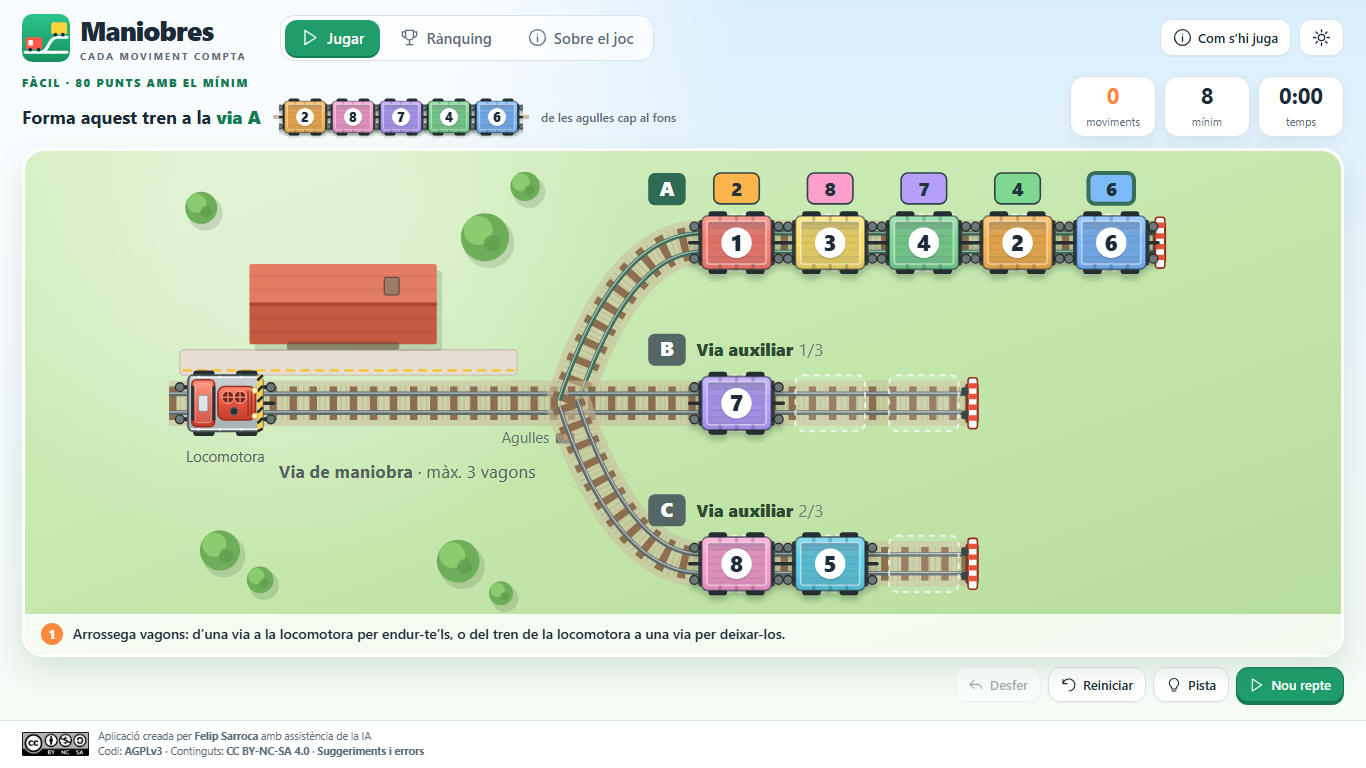
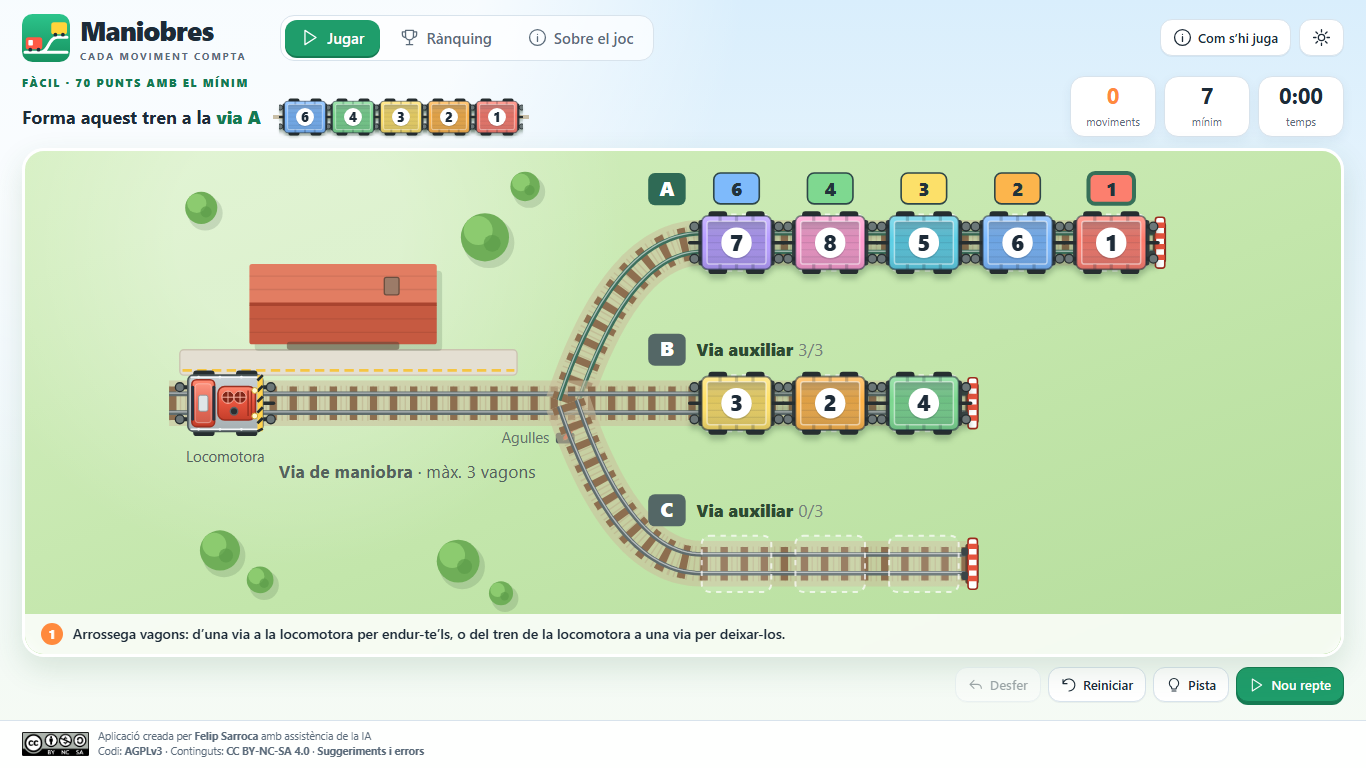
Maniobres 2.8.5: fora «de les agulles cap al fons» i README renovat amb captures noves

diff --git a/Maniobres/src/app.js b/Maniobres/src/app.js
@@ -708,7 +708,7 @@ function renderGame() {
             ? `Arrossega vagons entre les vies i la locomotora.`
             : `<b>1</b> Arrossega vagons: d’una via a la locomotora per endur-te’ls, o del tren de la locomotora a una via per deixar-los.`;
   $("#main").innerHTML =
-    `<div class="stage"><div class="stage-head"><div class="goal"><div class="eyebrow">${game.mode === "tutorial" ? "Partida de pràctica · no puntua" : game.min ? levelOf(game.min) + " · " + score(game.min, game.min) + " punts amb el mínim" : "Preparant…"}</div><div class="goal-line"><span>Forma aquest tren a la <b>via A</b></span><span class="target-train" aria-label="Tren objectiu: ${Array.from({ length: c.t }, (_, i) => game.labels?.[i] ?? i + 1).join(", ")}">${Array.from({ length: c.t }, (_, i) => `<svg class="mini-wagon" viewBox="-7 -24 66 48" aria-hidden="true">${wagonArt(game.labels?.[i] ?? i + 1, 0, 0).replace(" data-wagon=", " data-mini=")}</svg>`).join("")}</span><small>de les agulles cap al fons</small></div></div><div class="stage-stats"><div><b>${game.log.length}</b><small>moviments</small></div><div><b>${show(game.min)}</b><small>mínim${prefs.minimum && !isWon && remaining != null && game.log.length ? ` · en queden ${solving ? "…" : remaining}` : ""}</small></div><div><b id="timer">${time(game.finished ? game.seconds : elapsed())}</b><small>temps</small></div></div></div><div class="board-wrap ${selected ? "choosing" : ""} ${isWon ? "complete" : ""}">${board()}<p class="board-caption ${blocked ? "warning" : ""}">${instruction}${preview ? `<span class="hint-line">${esc(preview)}</span>` : ""}</p></div><div class="stage-controls">${isWon ? `<div class="choice-row"><button class="primary" data-action="result">Veure el resultat</button><button data-action="new">Una altra partida ${icon("arrow")}</button></div>` : `<div class="choice-row">${selected ? `<span class="choice-label">Via ${"ABC"[selected - 1]} · la locomotora torna</span>` + Array.from({ length: c.h + 1 }, (_, k) => `<button class="chip" data-cut="${k}" ${!moves(game.state, c).some((m) => m[0] === selected && m[1] === k) || autoplay ? "disabled" : ""}>${k === 0 ? "sola" : `<span class="amb">amb </span>${k} ${k === 1 ? "vagó" : "vagons"}`}</button>`).join("") + `<button class="ghost chip" data-action="cancel">Cancel·la</button>` : ""}</div>`}<div class="tool-row"><button data-action="undo" ${!game.log.length || autoplay ? "disabled" : ""}>${icon("undo")} Desfer</button><button data-action="restart">${icon("reset")} Reiniciar</button><button data-action="hint" ${isWon || autoplay || solving ? "disabled" : ""}>${icon("bulb")} Pista</button><button class="primary" data-action="new-menu">${icon("play")} Nou repte</button></div></div></div>`;
+    `<div class="stage"><div class="stage-head"><div class="goal"><div class="eyebrow">${game.mode === "tutorial" ? "Partida de pràctica · no puntua" : game.min ? levelOf(game.min) + " · " + score(game.min, game.min) + " punts amb el mínim" : "Preparant…"}</div><div class="goal-line"><span>Forma aquest tren a la <b>via A</b></span><span class="target-train" aria-label="Tren objectiu: ${Array.from({ length: c.t }, (_, i) => game.labels?.[i] ?? i + 1).join(", ")}">${Array.from({ length: c.t }, (_, i) => `<svg class="mini-wagon" viewBox="-7 -24 66 48" aria-hidden="true">${wagonArt(game.labels?.[i] ?? i + 1, 0, 0).replace(" data-wagon=", " data-mini=")}</svg>`).join("")}</span></div></div><div class="stage-stats"><div><b>${game.log.length}</b><small>moviments</small></div><div><b>${show(game.min)}</b><small>mínim${prefs.minimum && !isWon && remaining != null && game.log.length ? ` · en queden ${solving ? "…" : remaining}` : ""}</small></div><div><b id="timer">${time(game.finished ? game.seconds : elapsed())}</b><small>temps</small></div></div></div><div class="board-wrap ${selected ? "choosing" : ""} ${isWon ? "complete" : ""}">${board()}<p class="board-caption ${blocked ? "warning" : ""}">${instruction}${preview ? `<span class="hint-line">${esc(preview)}</span>` : ""}</p></div><div class="stage-controls">${isWon ? `<div class="choice-row"><button class="primary" data-action="result">Veure el resultat</button><button data-action="new">Una altra partida ${icon("arrow")}</button></div>` : `<div class="choice-row">${selected ? `<span class="choice-label">Via ${"ABC"[selected - 1]} · la locomotora torna</span>` + Array.from({ length: c.h + 1 }, (_, k) => `<button class="chip" data-cut="${k}" ${!moves(game.state, c).some((m) => m[0] === selected && m[1] === k) || autoplay ? "disabled" : ""}>${k === 0 ? "sola" : `<span class="amb">amb </span>${k} ${k === 1 ? "vagó" : "vagons"}`}</button>`).join("") + `<button class="ghost chip" data-action="cancel">Cancel·la</button>` : ""}</div>`}<div class="tool-row"><button data-action="undo" ${!game.log.length || autoplay ? "disabled" : ""}>${icon("undo")} Desfer</button><button data-action="restart">${icon("reset")} Reiniciar</button><button data-action="hint" ${isWon || autoplay || solving ? "disabled" : ""}>${icon("bulb")} Pista</button><button class="primary" data-action="new-menu">${icon("play")} Nou repte</button></div></div></div>`;
 }
 function select(v) {
   if (!game || game.finished || autoplay) return;
@@ -1002,7 +1002,7 @@ function renderAbout() {
       ["swap", "#ff8a3d", "Anar i tornar", "compta 1 moviment"],
     ],
     skills = ["Planificar", "Pensar enrere", "Dividir el problema", "Provar i ajustar", "Pensament computacional"];
-  $("#main").innerHTML = `<div class="page about-page"><header class="about-top"><img src="assets/favicon.svg" alt=""><div><div class="eyebrow">Sobre el joc</div><h1>Pocs vagons, poques vies, molt de cap</h1><p>Un trencaclosques de lògica: forma un tren amb el mínim de maniobres.</p></div></header><section class="panel about-rules"><h3>Les regles</h3><div class="rule-tiles">${rules.map(([ic, c, t, d]) => `<div><span style="--c:${c}">${icon(ic)}</span><b>${t}</b><small>${d}</small></div>`).join("")}</div></section><div class="about-trio"><section class="panel about-card"><h3>${icon("trophy")} Com puntua</h3><div class="score-pills"><span class="plus"><b>+10</b> per moviment del mínim</span><span class="minus"><b>−5</b> per moviment de més</span><span class="gold"><b>${icon("star")}</b> perfecte: el mínim exacte</span></div><small>Sense pistes · un cop per puzle · dura un any</small></section><section class="panel about-card"><h3>${icon("bulb")} Què s’hi aprèn</h3><div class="skill-chips">${skills.map((x) => `<span>${x}</span>`).join("")}</div></section><section class="panel about-card"><h3>${icon("route")} D’on ve</h3><p class="origin"><b>1979</b><span><strong>Inglenook Sidings</strong>, d’Alan Wright: un clàssic del modelisme ferroviari britànic basat en una feina real d’estació.</span></p></section></div><section class="panel about-facts"><div class="facts"><div><strong>8</strong><small>vagons a l’estació</small></div><div><strong>5</strong><small>formen el tren</small></div><div><strong>356.160</strong><small>situacions diferents</small></div><div><strong>17</strong><small>moviments, el repte més llarg</small></div></div></section><p class="credits">Versió 2.8.4 · Creat per <a href="https://ja.cat/felipsarroca" target="_blank" rel="noopener noreferrer">Felip Sarroca</a> amb assistència de la IA · Codi AGPLv3 i continguts CC BY-NC-SA 4.0 · <a href="https://github.com/felipsarroca/jocs/tree/main/Maniobres" target="_blank" rel="noopener noreferrer">Codi font</a> · <a href="https://github.com/felipsarroca/jocs/issues/new?template=maniobres.yml" target="_blank" rel="noopener noreferrer">Suggeriments i errors</a> · El rànquing només desa el nom de jugador i les solucions.</p></div>`;
+  $("#main").innerHTML = `<div class="page about-page"><header class="about-top"><img src="assets/favicon.svg" alt=""><div><div class="eyebrow">Sobre el joc</div><h1>Pocs vagons, poques vies, molt de cap</h1><p>Un trencaclosques de lògica: forma un tren amb el mínim de maniobres.</p></div></header><section class="panel about-rules"><h3>Les regles</h3><div class="rule-tiles">${rules.map(([ic, c, t, d]) => `<div><span style="--c:${c}">${icon(ic)}</span><b>${t}</b><small>${d}</small></div>`).join("")}</div></section><div class="about-trio"><section class="panel about-card"><h3>${icon("trophy")} Com puntua</h3><div class="score-pills"><span class="plus"><b>+10</b> per moviment del mínim</span><span class="minus"><b>−5</b> per moviment de més</span><span class="gold"><b>${icon("star")}</b> perfecte: el mínim exacte</span></div><small>Sense pistes · un cop per puzle · dura un any</small></section><section class="panel about-card"><h3>${icon("bulb")} Què s’hi aprèn</h3><div class="skill-chips">${skills.map((x) => `<span>${x}</span>`).join("")}</div></section><section class="panel about-card"><h3>${icon("route")} D’on ve</h3><p class="origin"><b>1979</b><span><strong>Inglenook Sidings</strong>, d’Alan Wright: un clàssic del modelisme ferroviari britànic basat en una feina real d’estació.</span></p></section></div><section class="panel about-facts"><div class="facts"><div><strong>8</strong><small>vagons a l’estació</small></div><div><strong>5</strong><small>formen el tren</small></div><div><strong>356.160</strong><small>situacions diferents</small></div><div><strong>17</strong><small>moviments, el repte més llarg</small></div></div></section><p class="credits">Versió 2.8.5 · Creat per <a href="https://ja.cat/felipsarroca" target="_blank" rel="noopener noreferrer">Felip Sarroca</a> amb assistència de la IA · Codi AGPLv3 i continguts CC BY-NC-SA 4.0 · <a href="https://github.com/felipsarroca/jocs/tree/main/Maniobres" target="_blank" rel="noopener noreferrer">Codi font</a> · <a href="https://github.com/felipsarroca/jocs/issues/new?template=maniobres.yml" target="_blank" rel="noopener noreferrer">Suggeriments i errors</a> · El rànquing només desa el nom de jugador i les solucions.</p></div>`;
 }
 // Escenes del «Com s'hi juga»: una estació petita (via de maniobra, via A amb corba i via B recta).
 function scene(step) {

diff --git a/Maniobres/src/style.css b/Maniobres/src/style.css
@@ -273,11 +273,6 @@ input {
 .goal-line b {
   color: var(--green-dark);
 }
-.goal-line small {
-  color: var(--muted);
-  font-size: 12px;
-  font-weight: 500;
-}
 .target-train {
   display: flex;
   gap: 5px;
@@ -1934,9 +1929,6 @@ kbd {
   }
 }
 @media (max-width: 1150px) and (min-width: 651px) {
-  .goal-line small {
-    display: none;
-  }
   .stage-stats > div {
     min-width: 66px;
     padding: 5px 8px;
@@ -1983,10 +1975,6 @@ kbd {
   }
   .goal-line {
     gap: 10px 12px;
-  }
-  .goal-line small {
-    flex-basis: 100%;
-    margin-top: -4px;
   }
   .stage-stats > div {
     padding: 9px 8px;

diff --git a/Maniobres/sw.js b/Maniobres/sw.js
@@ -1,5 +1,5 @@
 // SPDX-License-Identifier: AGPL-3.0-or-later
-const CACHE = "maniobres-v2.8.4-1";
+const CACHE = "maniobres-v2.8.5-1";
 const FILES = [
   "./",
   "./index.html",

diff --git a/Maniobres/README.md b/Maniobres/README.md
@@ -1,94 +1,166 @@
+<div align="center">
+
+<img src="assets/favicon.svg" width="96" alt="Icona de Maniobres">
+
 # Maniobres
 
-**Cada moviment compta.** Un puzle ferroviari en català inspirat en l’**Inglenook Sidings** d’Alan Wright (1979).
+**Cada moviment compta.**
+Un trencaclosques ferroviari en català: pocs vagons, poques vies i molt de cap.
 
-**[Juga a Maniobres](https://ja.cat/maniobres)** · [Guia docent](docs/guia-docent.md) · [Revisió crítica](docs/revisio.md)
+**[Juga ara a ja.cat/maniobres](https://ja.cat/maniobres)**
 
-![Estació de Maniobres en un portàtil](docs/screenshots/estacio-1366.png)
+![Versió](https://img.shields.io/badge/versió-2.8.5-1f9d6b)
+![Català](https://img.shields.io/badge/llengua-català-e5533d)
+![PWA](https://img.shields.io/badge/PWA-funciona%20sense%20connexió-2f80d1)
+![Codi AGPLv3](https://img.shields.io/badge/codi-AGPLv3-5b6b7a)
+![Continguts CC BY-NC-SA 4.0](https://img.shields.io/badge/continguts-CC%20BY--NC--SA%204.0-f5b82e)
 
-## El joc
+[Guia docent](docs/guia-docent.md) · [Revisió crítica](docs/revisio.md) · [Historial de canvis](CHANGELOG.md) · [Suggeriments i errors](https://github.com/felipsarroca/jocs/issues/new?template=maniobres.yml)
 
-Forma el tren objectiu a la via A, en l’ordre indicat des de les agulles fins al fons. Arrossega vagons d’una via a la locomotora o de la locomotora a una via. Cada anada i tornada de la locomotora compta com una maniobra. Només es poden agafar els vagons accessibles i cada via té una capacitat limitada.
+<img src="docs/screenshots/estacio-1366.png" alt="L’estació de Maniobres en un portàtil" width="860">
 
-La versió 2.0 és deliberadament senzilla: **Jugar**, **Rànquing** i **Sobre el joc**.
+</div>
 
-- **Jugar:** quatre dificultats (fàcil, mitjà, difícil i expert) segons el mínim de moviments. S’eviten els puzles que ja has resolt en aquest navegador.
-- Guia visual, mínim i moviments restants, pistes visuals (vagó marcat i fletxa), desfer, reinici, reproducció de la solució òptima i so opcional.
-- En acabar, la locomotora s’emporta el tren; el resultat mostra estrelles i xifres.
-- Rànquing general i per nivell; instal·lable com a app des de Preferències.
-- SVG originals, números a més de colors, teclat, moviment reduït i disseny adaptable.
-- PWA: el joc funciona sense connexió després de la primera càrrega; el rànquing necessita connexió.
+## Què és
 
-![Benvinguda amb el nom de jugador](docs/screenshots/benvinguda.png)
+Maniobres és una versió en català de l’**Inglenook Sidings**, el clàssic del modelisme ferroviari britànic que Alan Wright va idear el 1979 a partir d’una feina real d’estació. L’estació té una via de maniobra, una locomotora i tres vies sense sortida. La teva feina és **formar a la via A un tren concret, en l’ordre exacte, amb el mínim de moviments possible**.
 
-![Resultat d’una partida](docs/screenshots/resultat.png)
+Sembla fàcil: només hi ha vuit vagons. Però l’espai és el repte, i cada solució obliga a planificar, pensar enrere i dividir el problema en parts.
 
-### Controls
+## Com es juga
 
-Ratolí o tacte: **arrossega** un vagó d’una via fins a la locomotora per endur-te’l (amb els que té davant), o un vagó del tren de la locomotora fins a una via per deixar-lo (amb els que té darrere). També pots tocar una via i després el darrer vagó que vols endur-te. Teclat: **A/B/C**, després **0–3** o fletxes i Retorn; **Ctrl+Z** o **Z** desfà, **P** demana una pista, **N** obre un nou repte i **Esc** cancel·la.
+1. **Forma el tren** que es mostra a dalt a la via A, plaça per plaça.
+2. **La locomotora porta com a molt tres vagons.** La via A n’admet cinc; les vies B i C, tres cadascuna.
+3. **Només pots agafar els vagons de davant**, els més propers a les agulles. Els del fons s’han d’esperar.
+4. **Cada anada i tornada de la locomotora és un moviment.**
 
-## Rànquing públic
+**Arrossega** un vagó d’una via cap a la locomotora per endur-te’l (amb els que té davant), o un vagó del tren de la locomotora cap a una via per deixar-lo (amb els que té darrere). Els vagons llisquen seguint els rails. També pots tocar una via i triar amb quants vagons torna la locomotora.
 
-![Rànquing amb un jugador de prova](docs/screenshots/ranquing-prova.png)
+<table>
+<tr>
+<td width="50%"><img src="docs/screenshots/guia.png" alt="Guia animada «Com s’hi juga»"></td>
+<td width="50%"><img src="docs/screenshots/pista.png" alt="Pista visual amb el vagó marcat i una fletxa"></td>
+</tr>
+<tr>
+<td><b>Com s’hi juga.</b> Cinc passos curts, cadascun amb una escena animada de l’estació, i una partida de pràctica.</td>
+<td><b>Pistes visuals.</b> El vagó que cal moure batega i una fletxa marca el recorregut. Amb pistes, la partida no puntua.</td>
+</tr>
+<tr>
+<td><img src="docs/screenshots/sortida.png" alt="La locomotora s’emporta el tren format"></td>
+<td><img src="docs/screenshots/resultat.png" alt="Resultat d’una partida perfecta"></td>
+</tr>
+<tr>
+<td><b>El tren surt.</b> En acabar, la locomotora deixa els vagons que porta en una via auxiliar, s’enganxa al tren format i se l’emporta.</td>
+<td><b>Resultat.</b> Estrelles, moviments, mínim, temps, punts i el teu lloc al rànquing.</td>
+</tr>
+</table>
 
-La captura mostra un jugador creat per a les proves i eliminat després.
+### Dreceres de teclat
 
-- En entrar per primer cop, una benvinguda demana el **nom de jugador** únic (3–16 caràcters), sense contrasenya; així tothom surt al rànquing. El dispositiu el recorda i, si el navegador perd la sessió, el recupera sol. Des d’un altre dispositiu es pot continuar amb el mateix nom: el joc avisa que ja s’ha fet servir i, si el jugador confirma que és seu, s’hi trasllada amb tots els punts (l’altre dispositiu en queda desvinculat fins que hi torni a continuar). Hi ha un filtre de paraules ofensives i l’avís de no fer servir el nom real.
-- Cada puzle resolt **sense pistes** suma **10 punts per moviment del mínim**, menys 5 per cada moviment de més, amb un terra d’una quarta part. Un puzle de 12 moviments resolt en 12 val 120 punts.
-- Cada puzle compta **una sola vegada**, amb el millor resultat. Cada resultat **caduca al cap d’un any**.
-- Llista de tots els participants ordenada per punts (medalla per als tres primers), amb els puzles resolts, els perfectes (resolts amb el mínim de moviments) i una barra de punts; en tocar un jugador, la seva fitxa amb cada puzle resolt (dificultat, data, moviments respecte del mínim, temps i punts) i un botó per jugar el mateix puzle; fitxa pròpia (lloc, punts, puzles i perfectes), canvi de nom i esborrament de les dades pròpies.
-- Les solucions es comproven tornant-les a jugar amb el motor i la taula de mínims a cada navegador que obre el rànquing: una solució falsa no puntua. No pot demostrar l’absència d’ajuda externa; és una classificació lúdica.
+| Tecla | Acció |
+|---|---|
+| <kbd>A</kbd> <kbd>B</kbd> <kbd>C</kbd> | Tria una via |
+| <kbd>0</kbd>–<kbd>3</kbd> | La locomotora torna amb tants vagons |
+| <kbd>Ctrl</kbd>+<kbd>Z</kbd> o <kbd>Z</kbd> | Desfer |
+| <kbd>P</kbd> | Pista |
+| <kbd>N</kbd> | Nou repte |
+| <kbd>Esc</kbd> | Cancel·la la selecció o la pista |
 
-![Sobre el joc](docs/screenshots/sobre.png)
+## Què hi trobaràs
 
-## Matemàtiques verificades
+- **Quatre nivells** segons el mínim de moviments: Fàcil (fins a 8), Mitjà (9–12), Difícil (13–15) i Expert (16–17). El joc evita els puzles que ja has resolt en aquell navegador.
+- **Ajudes:** desfer sense penalització, reiniciar, pistes visuals, el mínim de moviments i els que en queden, i la reproducció d’una solució òptima.
+- **Rànquing públic** general i per nivells, amb la fitxa de partides de cada jugador.
+- **Preferències** amb interruptors: so discret, menys animacions i mostrar o amagar el mínim. Des d’aquí també es pot **instal·lar el joc com una app**.
+- **Disseny adaptat a cada pantalla:** sense desplaçament a 1366 × 768, també amb escalat del 125 % i del 150 %, i una disposició pròpia per al mòbil.
+- **Accessible:** números a més de colors, teclat complet, etiquetes per a lectors de pantalla i opció de moviment reduït.
+- **Sense connexió:** és una PWA; després de la primera càrrega, el joc funciona sense xarxa. El rànquing sí que necessita connexió.
 
-El model clàssic té 403.200 posicions inicials etiquetades i 6.720 trens objectiu: 2.709.504.000 combinacions. Identificant els tres vagons sobrants s’obtenen **356.160 estats**, dels quals **67.200** són inicials. El màxim del mínim és **17**, la mitjana és **11,5416** i hi ha **32** situacions inicials reduïdes de 17 moviments.
+<table>
+<tr>
+<td width="34%" align="center"><img src="docs/screenshots/mobil.png" alt="Maniobres al mòbil" width="260"></td>
+<td width="66%">
+<img src="docs/screenshots/nou-repte.png" alt="Tria de la dificultat">
+<br><br>
+<img src="docs/screenshots/preferencies.png" alt="Preferències amb interruptors">
+</td>
+</tr>
+</table>
 
-Les taules binàries contenen una distància exacta per estat. Un Web Worker les consulta sense bloquejar la interfície. Les pistes segueixen un veí amb distància inferior en una unitat. 
+## Rànquing
 
-Les etiquetes visibles dels vagons es barregen de manera determinista: la mateixa URL sempre presenta el mateix puzle i els mateixos números. Els identificadors `v1-classic-…` inclouen la versió de representació. No es canvia el catàleg d’una versió publicada sense mantenir els identificadors anteriors.
+<img src="docs/screenshots/ranquing-nivells.png" alt="Rànquing amb pestanyes per nivell (jugadors fictics)">
 
-## Desenvolupament i proves
+*La captura mostra jugadors fictics.*
 
-Aplicació estàtica amb mòduls JavaScript estàndard, SVG i CSS. No necessita compilació ni dependències externes durant el joc. Node.js 24 s’ha utilitzat per generar les dades i executar les proves.
+- **Nom de jugador únic** (3–16 caràcters), sense contrasenya ni correu. Una benvinguda el demana el primer cop. El dispositiu el recorda i, si el navegador perd la sessió, el recupera sol.
+- **Canvi de dispositiu:** si escrius un nom que ja existeix, el joc t’avisa i, si confirmes que és teu, hi continues amb tots els punts. Hi ha un filtre de paraules ofensives i l’avís de no fer servir el nom real.
+- **Puntuació:** cada puzle resolt **sense pistes** suma **10 punts per moviment del mínim** i en resta 5 per cada moviment de més, amb un mínim d’una quarta part. Un puzle de 12 moviments resolt en 12 val 120 punts.
+- Cada puzle compta **una sola vegada**, amb el millor resultat, i cada resultat **caduca al cap d’un any**.
+- **Llista de tots els participants** ordenada per punts, amb medalla per als tres primers, puzles resolts, perfectes (amb el mínim exacte) i pestanyes per nivell. Tocant un jugador s’obre la seva fitxa: cada puzle amb dificultat, data, moviments, temps i punts, i un botó per jugar el mateix puzle.
+- **Verificació:** cada navegador que obre el rànquing torna a jugar totes les solucions amb el motor i la taula de mínims, i una solució falsa no puntua. No pot demostrar l’absència d’ajuda externa: és una classificació lúdica.
+
+<div align="center"><img src="docs/screenshots/benvinguda.png" alt="Benvinguda amb el nom de jugador" width="640"></div>
+
+## A l’aula
+
+Maniobres treballa el **pensament computacional** i la **resolució de problemes**: planificar abans d’actuar, descompondre un objectiu gran en passos, raonar cap enrere des del resultat i comparar la pròpia solució amb l’òptima. La [guia docent](docs/guia-docent.md) proposa com fer-lo servir a classe.
+
+- **Privacitat:** no es demanen correus, contrasenyes ni edats. El rànquing desa només el nom de jugador, les solucions i les dates. No hi ha analítica ni publicitat. El botó «Esborra’m» elimina el nom i tots els resultats propis.
+- Un nom que permeti identificar un alumne és una dada personal: cal demanar noms de joc i que el centre en validi l’ús.
+- Materials revisats tècnicament i visualment. **Pendents de validació amb alumnat.**
+
+<div align="center"><img src="docs/screenshots/sobre.png" alt="Pantalla «Sobre el joc»" width="860"></div>
+
+## Les matemàtiques del joc
+
+El model clàssic té 403.200 posicions inicials etiquetades i 6.720 trens objectiu: **2.709.504.000 combinacions**. Si es consideren iguals els tres vagons sobrants, en queden **356.160 estats**, dels quals **67.200** són inicials.
+
+| Dada | Valor |
+|---|---|
+| Mínim més llarg | **17 moviments** |
+| Mitjana del mínim | **11,5416** moviments |
+| Situacions inicials de 17 moviments | **32** |
+| Reptes del catàleg | **818** |
+
+Unes taules binàries guarden la distància exacta de cada estat a la solució. Un Web Worker les consulta sense bloquejar la interfície, i les pistes segueixen sempre un estat amb una distància una unitat menor.
+
+Els números visibles dels vagons es barregen de manera determinista: la mateixa URL sempre mostra el mateix puzle amb els mateixos números. Els identificadors `v1-classic-…` inclouen la versió de representació; no es canvia el catàleg d’una versió publicada sense mantenir els identificadors anteriors.
+
+## Desenvolupament
+
+Aplicació estàtica amb mòduls JavaScript estàndard, SVG i CSS. No necessita compilació ni dependències durant el joc. S’ha fet servir Node.js 24 per generar les dades i executar les proves.
 
 ```sh
 npm ci
-npm test
-npm run serve
+npm test          # motor, catàleg i regles
+npm run serve     # http://127.0.0.1:4173/
 ```
 
-Obre `http://127.0.0.1:4173/`. En una altra terminal:
+Amb el servidor en marxa, en una altra terminal (cal Chrome i Playwright):
 
 ```sh
-node tests/browser.mjs
-node tests/flows.mjs
+node tests/browser.mjs   # pantalles i captures
+node tests/flows.mjs     # partides completes, arrossegar, sense connexió…
 ```
 
-Les proves de navegador requereixen Chrome i Playwright.
-
-```sh
-npm run generate
-```
-
-Regenera les set taules, el catàleg i les estadístiques. Les proves comproven tots els 818 reptes del catàleg, la reversibilitat dels moviments, les capacitats, els recomptes clàssics i la recuperació del tren en el mínim anunciat.
+`npm run generate` regenera les set taules, el catàleg i les estadístiques. Les proves comproven els 818 reptes del catàleg, la reversibilitat dels moviments, les capacitats, els recomptes clàssics i que el tren es pot formar en el mínim anunciat.
 
 ```text
 src/       motor, interfície, solucionador en Worker i client del rànquing
 data/      taules binàries, catàleg i estadístiques reproduïbles
-assets/    SVG propi i distintiu de llicència
+assets/    icona i distintiu de llicència
 firebase/  regles de seguretat de Firestore
 scripts/   generació de dades i servidor de desenvolupament
 tests/     motor, navegador i fluxos complets
 docs/      guia docent, revisió crítica i captures
 ```
 
-## Publicació i servei compartit
+### Publicació
 
-El frontend viu a GitHub Pages, dins del repositori `felipsarroca/jocs`. Els fitxers publicats són els mateixos que hi ha en aquesta carpeta. La CI comprova el motor i la sintaxi.
+El joc es publica a GitHub Pages, dins del repositori `felipsarroca/jocs`, i s’hi arriba des de [ja.cat/maniobres](https://ja.cat/maniobres). La CI comprova el motor i la sintaxi. A cada canvi de recursos cal incrementar la versió de la memòria cau a `sw.js` (i la versió a `package.json`, `CHANGELOG.md` i «Sobre el joc»). El nou service worker s’activa quan es tanquen les pestanyes antigues.
 
-El rànquing usa el projecte Firebase dedicat **maniobres-cat** (Firestore a `eur3`, pla gratuït Spark) amb accés anònim. La configuració web de `src/ranking.js` és pública per disseny; la seguretat la donen les regles de `firebase/firestore.rules`:
+El rànquing fa servir el projecte Firebase **maniobres-cat** (Firestore a `eur3`, pla gratuït Spark) amb accés anònim. La configuració web de `src/ranking.js` és pública per disseny; la seguretat la donen les regles de `firebase/firestore.rules`:
 
 - cada jugador només pot escriure el seu document i reservar el seu nom;
 - cada actualització afegeix o millora com a molt un resultat, amb l’hora del servidor i un format de solució vàlid;
@@ -96,20 +168,14 @@ El rànquing usa el projecte Firebase dedicat **maniobres-cat** (Firestore a `eu
 
 Per desplegar les regles: `cd firebase` i `firebase deploy --only firestore:rules --project maniobres-cat`.
 
-Per a una actualització, executa les proves, actualitza la versió de la memòria cau de `sw.js` quan canviïn recursos i publica els fitxers. El nou service worker s’activa quan es tanquen les pestanyes antigues.
+## Autoria, fonts i llicència
 
-## Privacitat i ús escolar
+Aplicació creada per **Felip Sarroca amb assistència de la IA**. El nom «Maniobres» descriu les operacions d’ordenar, enganxar i separar vagons dins d’un espai limitat.
 
-No es demanen correus, contrasenyes ni edats. El rànquing desa el nom de jugador, les solucions i les dates. No hi ha analítica ni publicitat. El botó «Esborra’m» elimina el nom i tots els resultats propis. Un nom que permeti identificar un alumne és una dada personal: cal demanar noms de joc i que el centre en validi l’ús.
-
-Materials preparats i revisats tècnicament i visualment. **Pendents de validació amb alumnat.**
-
-## Autoria i llicència
-
-Aplicació creada per **Felip Sarroca amb assistència de la IA**. El nom «Maniobres» descriu les operacions d’ordenar, enganxar i separar vehicles dins d’un espai limitat.
-
-- Alan Wright: Inglenook Sidings, 1979.
+- Alan Wright: *Inglenook Sidings*, 1979.
 - [Simon R. Blackburn, *Inglenook Shunting Puzzles*](https://arxiv.org/abs/1810.07970).
 - [Adrian Wymann, *Model Railways Shunting Puzzles*](https://www.wymann.info/ShuntingPuzzles/).
 
-Codi: [AGPLv3](LICENSE) · Continguts (textos, SVG originals i materials): [CC BY-NC-SA 4.0](https://creativecommons.org/licenses/by-nc-sa/4.0/deed.ca) · [Suggeriments i errors](https://github.com/felipsarroca/jocs/issues/new?template=maniobres.yml). El rànquing carrega el SDK de Firebase (Apache 2.0) des de gstatic.com. No s’han utilitzat recursos visuals de tercers.
+**Codi:** [AGPLv3](LICENSE) · **Continguts** (textos, SVG originals i materials): [CC BY-NC-SA 4.0](https://creativecommons.org/licenses/by-nc-sa/4.0/deed.ca) · [Suggeriments i errors](https://github.com/felipsarroca/jocs/issues/new?template=maniobres.yml).
+
+El rànquing carrega el SDK de Firebase (Apache 2.0) des de gstatic.com. Tots els dibuixos són originals: no s’han fet servir recursos visuals de tercers.

diff --git a/Maniobres/CHANGELOG.md b/Maniobres/CHANGELOG.md
@@ -1,5 +1,10 @@
 # Registre de canvis
 
+## 2.8.5 · 21 de novembre de 2026
+
+- Fora el text «de les agulles cap al fons» al costat del tren objectiu.
+- README renovat amb captures noves.
+
 ## 2.8.4 · 21 de novembre de 2026
 
 - Sortida del tren: si la locomotora encara porta vagons, primer els deixa a la via auxiliar (B o C) que tingui lloc, torna enrere i després s’emporta el tren de la via A, sense passar per damunt de cap vagó.
